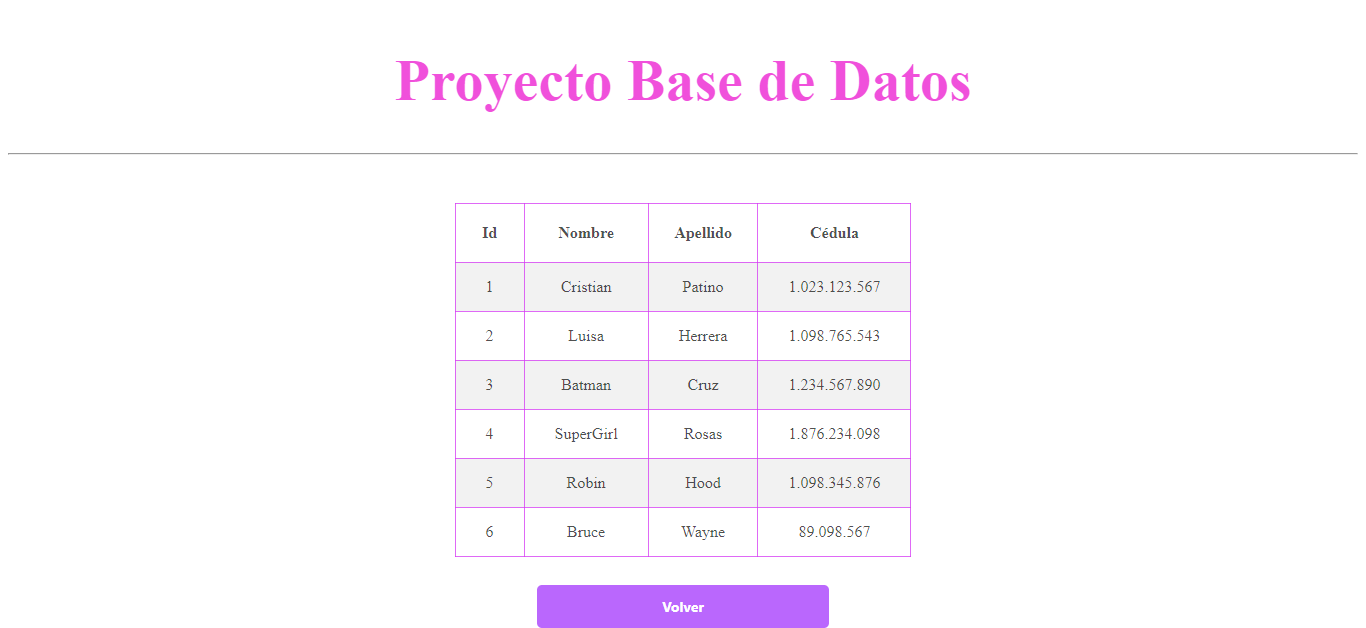
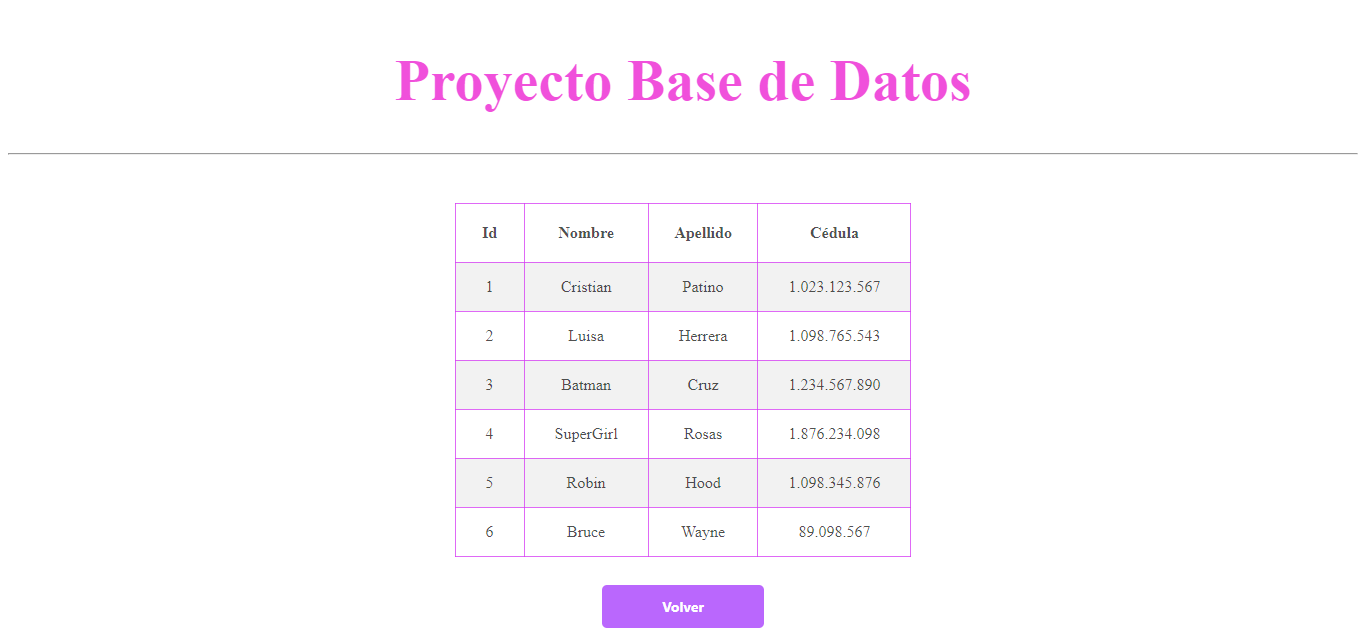
Finalizacion del punto 4

Changed region(s): [[0.369, 0.9076, 0.4612, 1.0], [0.5534, 0.9076, 0.6149, 1.0]]

diff --git a/styles/general-styles.css b/styles/general-styles.css
@@ -46,6 +46,7 @@ input {
 
 select {
   height: 35px;
+  width: 250px;
   background-color: #bb2acead;
   border: none;
   text-align: center;
@@ -54,7 +55,7 @@ select {
 
 a, button {
   margin: 20px 0 40px;
-  padding: 12px 125px;
+  padding: 12px 60px;
   color: #ffffff;
   background-color: #b154fde2;
   border: none;
@@ -64,6 +65,8 @@ a, button {
   font-weight: bold;
   text-decoration: none;
   cursor: pointer;
+  width: auto;
+  height: auto;
 }
 
 a:hover, button:hover{

diff --git a/punto-1/view/styles/form.css b/punto-1/view/styles/form.css
@@ -9,7 +9,7 @@
 select{
     margin: 10px 0px;
     padding: 5px 60px;
-    width:100% ;
+    width: 250px ;
     color: aliceblue;
 }
 option{

diff --git a/punto-1/controller/calculationController.php b/punto-1/controller/calculationController.php
@@ -7,8 +7,8 @@ if(isset($_POST["first_number"])&& isset($_POST["second_number"])&& isset($_POST
 
 
 
-    $firstNumber= intval($_POST["first_number"]);
-    $secondNumber=intval($_POST["second_number"]);
+    $firstNumber= floatval($_POST["first_number"]);
+    $secondNumber=floatval($_POST["second_number"]);
     $operationType=$_POST["operation_type"];
 
     if($firstNumber!=null && $secondNumber!=null){
@@ -16,15 +16,19 @@ if(isset($_POST["first_number"])&& isset($_POST["second_number"])&& isset($_POST
     switch($operationType){
         case"sumar":
             $result=  $firstNumber+$secondNumber;
+            $message= "El resultado de la suma es: ". $result;
             break;
         case"restar":
             $result= $firstNumber-$secondNumber;
+            $message= "El resultado de la resta es: ". $result;
             break;    
         case"multiplicar":
             $result=  $firstNumber*$secondNumber;
+            $message= "El resultado de la multiplicación es: ". $result;
             break;
         case"dividir":
             $result= $firstNumber/$secondNumber;
+            $message= "El resultado de la división es: ". $result;
             break;   
         default:
             $message="Selecione una operacion valida";        

diff --git a/punto-3/view/components/form.php b/punto-3/view/components/form.php
@@ -5,22 +5,22 @@
     <div class="form_row">
         <div>
             <label for="first-name">Nombres del usuario</label>
-            <input id="first-name"type="text" name="first_name" placeholder="john">
+            <input id="first-name"type="text" name="first_name" placeholder="john" required>
 
         </div>
         <div>
             <label for="last-name">Apellidos del usuario</label>
-            <input id="last-name"type="text" name="last_name" placeholder="Doe"> 
+            <input id="last-name"type="text" name="last_name" placeholder="Doe" required> 
         </div>
         <div>
             <label for="document">Cédula del usuario</label>
-            <input id="document"type="text" name="document" placeholder="1023786098"> 
+            <input id="document"type="text" name="document" placeholder="1023786098" required> 
         </div>
 
     </div>
-    <button>Registrar</button>
 
-    <div class="volver">
+    <div class="buttons">
+    <button>Registrar</button>
     <a href="../index.php">Volver</a>
     </div>
 

diff --git a/punto-4/view/components/form.php b/punto-4/view/components/form.php
@@ -1,17 +1,17 @@
 <?php include"./controller/calculationController.php";?>
 
 <form method="post">
-    <h2>Calculadora de mayoria de edad</h2>
+    <h2>Calculadora de mayoria de edad con fechas</h2>
     <div class="form_row">
         <div>
             <label for="name">Nombre</label>
-            <input id="name"type="text" name="name" placeholder="jhon">
+            <input id="name"type="text" name="name" placeholder="jhon" required>
 
         </div>
         <br>
         <div>
-            <label for="age-person">Edad</label>
-            <input id="age-person"type="text" name="age_person" placeholder="12"> 
+            <label for="date-birth">Seleccione su fecha de nacimiento</label>
+            <input id="date-birth"type="date" name="date_birth" required> 
         </div>
 
     </div>

diff --git a/punto-4/controller/calculationController.php b/punto-4/controller/calculationController.php
@@ -1,0 +1,26 @@
+<?php
+const AGE = 18;
+$message="";
+$today = new DateTime();
+
+
+
+if(isset($_POST["name"])&& isset($_POST["date_birth"])){
+    
+
+    $name=$_POST["name"];
+    $birthDate= new DateTime($_POST["date_birth"]);
+    $newDate= $birthDate -> diff($today);
+
+    $message2= " su edad actual es de: ". $newDate->y." años ". $newDate->m." meses ". $newDate->d." dias ";
+
+    if($newDate->y>=AGE){
+        $message="usted es mayor de edad,";
+    }
+    
+    else{
+        $message="usted es menor de edad,";
+    }
+
+}
+?>

diff --git a/punto-3/view/components/info.php b/punto-3/view/components/info.php
@@ -1,16 +1,16 @@
 <div class="user-info--container">
     <div>
-        <b>Nombres del usuario</b>
+        <b>Nombres del usuario:</b>
         <span><?php echo $_GET["first_name"]?></span>
 
     </div>
     <div>
-        <b>Apellidos del usuario</b>
+        <b>Apellidos del usuario:</b>
         <span><?php echo $_GET["last_name"]?></span>
     </div>
 
     <div>
-        <b>Cédula del usuario</b>
+        <b>Cédula del usuario:</b>
         <span><?php echo $_GET["document"]?></span>
     </div>
 

diff --git a/punto-4/index.php b/punto-4/index.php
@@ -1,0 +1,16 @@
+<!DOCTYPE html>
+<html lang="en">
+<head>
+    <meta charset="UTF-8">
+    <meta name="viewport" content="width=device-width, initial-scale=1.0">
+    <link rel="stylesheet" href="../styles/general-styles.css">
+    <title>Punto 4 </title>
+</head>
+<body>
+<h1> Punto 4 - Calculo de mayoria de edad con fechas</h1>    
+<hr>
+<?php include"./view/components/form.php";?>
+<?php include"./view/components/result.php";?>
+    
+</body>
+</html>

diff --git a/punto-3/index.php b/punto-3/index.php
@@ -9,7 +9,7 @@
     <title>Punto 3</title>
 </head>
 <body>
-    <h1>Enviar datos del usuario</h1>
+    <h1>Punto 3- Enviar datos del usuario</h1>
     <hr>
     <?php include"./view/components/form.php";?>
 

diff --git a/punto-1/view/components/result.php b/punto-1/view/components/result.php
@@ -3,9 +3,6 @@
 
 <?php
 if ($message !=""){ ?>
-<p>El resultado de operacion seleccionada es:</p>
  <p> <?php echo $message; ?></p>  
 <?php } ?>
-<h3><?php echo number_format($result); ?></h3>
-
 </div>

diff --git a/punto-4/view/components/result.php b/punto-4/view/components/result.php
@@ -1,0 +1,9 @@
+<div>
+<?php
+if ($message !=""){ ?>
+
+ <p> <?php echo $name." ".$message. $message2; ?></p>  
+<?php } ?>
+
+
+</div>

diff --git a/README.md b/README.md
@@ -4,17 +4,23 @@
 <p>Curso: full Stack Basico - Grupo 1 </p>
 <p>Profesor: Cristian Patiño</p>
 
-<h2> Punto 1: </h2>
+<h2> Punto 1: Operación de dos números</h2>
+<img src="./public/images/punto1.png" alt="calculadora">
 
 
 
-<h2> Punto 2: </h2>
+<h2> Punto 2: Calculo de mayoria de edad</h2>
+<img src="./public/images/punto2.png" alt="calculadoraMayoriaEdad">
 
 
-<h2> Punto 3: </h2>
+<h2> Punto 3: Enviar datos del usuario</h2>
+<img src="./public/images/punto3.png" alt="registro">
+
+<img src="./public/images/punto3.1.png" alt="registro">
 
 
 <h2> Punto 4: </h2>
+<img src="./public/images/punto4.png" alt="fechaNacimiento">
 
 
 <h2> Punto 5 - 6 - 7: </h2>
